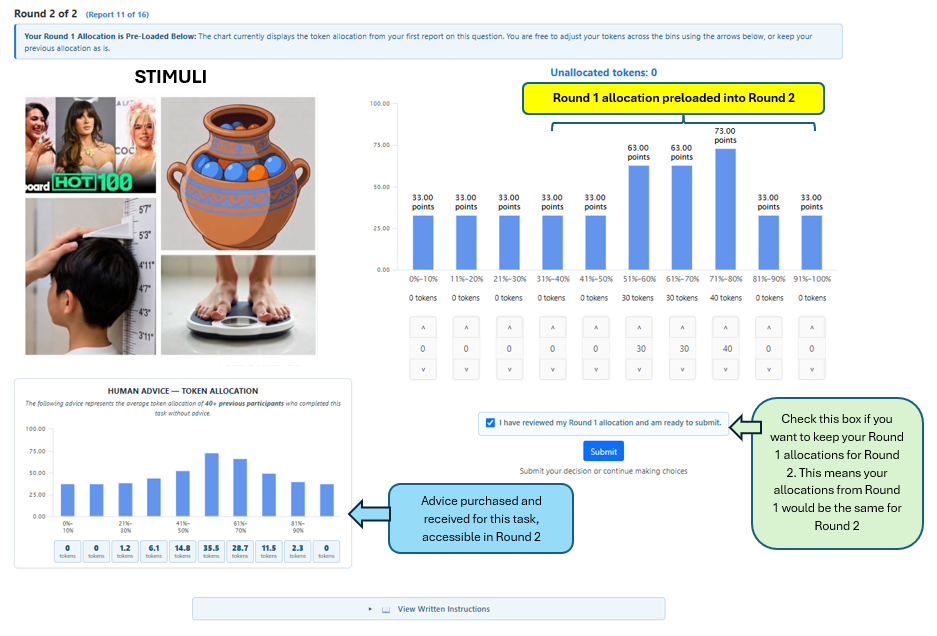
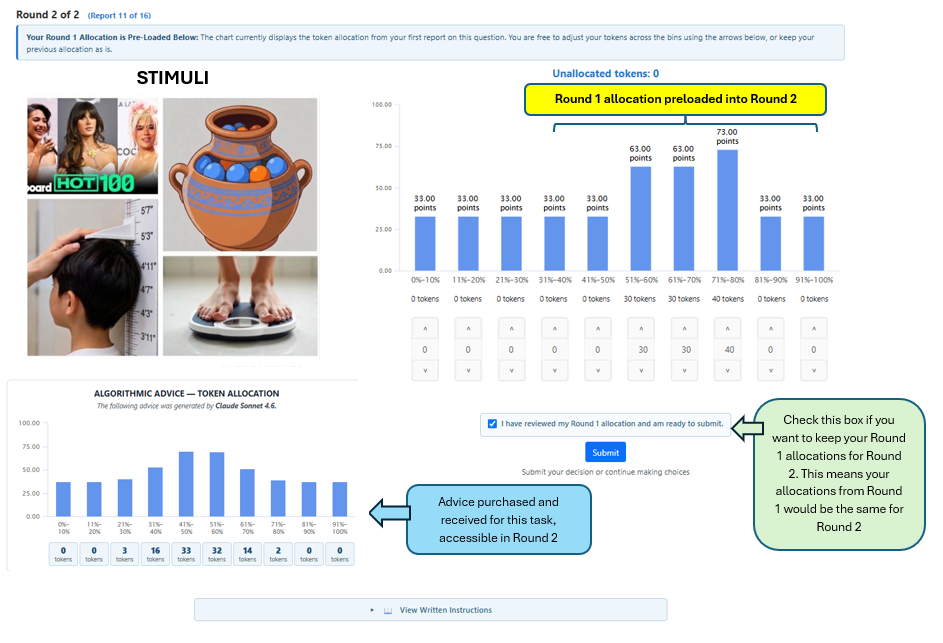
Adjusted written instructions

diff --git a/advice/instructions_div.html b/advice/instructions_div.html
@@ -134,12 +134,11 @@
                allocations <strong>pre-loaded into Round 2</strong>. You will now have the option to keep your Round 1 allocations
                 or change your token allocation based on the advice you received. If you choose to keep your Round 1 allocations,
                 click the box that states <strong>"I have reviewd my Round 1 allocation and am ready to submit"</strong>. If you paid for
-                and received advice, a miniature advice table will be displayed in Round 2 under the picture or stimuli.
-                You can also refer to your previously received advice for that task by accessing the <strong>Advice tab</strong>
-                located at the bottom of the page in Round 2.
+                and received advice, a histogram displaying advice for this question will be shown at the bottom left of the screen, beneath the picture or stimuli.
+
 
             <div class="text-center my-3">
-                <img src="{{ static 'post_belief_intro.png' }}" class="img-fluid border" alt="Round 2">
+                <img src="{{ static 'post_pic.png' }}" class="img-fluid border" alt="Round 2">
             </div>
 
             </p>
@@ -157,7 +156,7 @@
                 </li>
                 <li>
                     <strong>Endowment:</strong>
-                    You are given a <strong>${{ endowment }} </strong> endowment to cover the cost of purchasing advice across all 4 tasks.
+                    You are given a <strong>${{ endowment }}  endowment </strong>to cover the cost of purchasing advice across all 4 tasks.
                     Any money left over from your endowment at the end of the experiment is yours to keep.
                 </li>
                 <li>

diff --git a/settings.py b/settings.py
@@ -328,7 +328,7 @@ SECRET_KEY = '4720801523770'
 
 INSTALLED_APPS = ['otree']
 
-DEBUG = True
+DEBUG = False
 
 
 # import os
